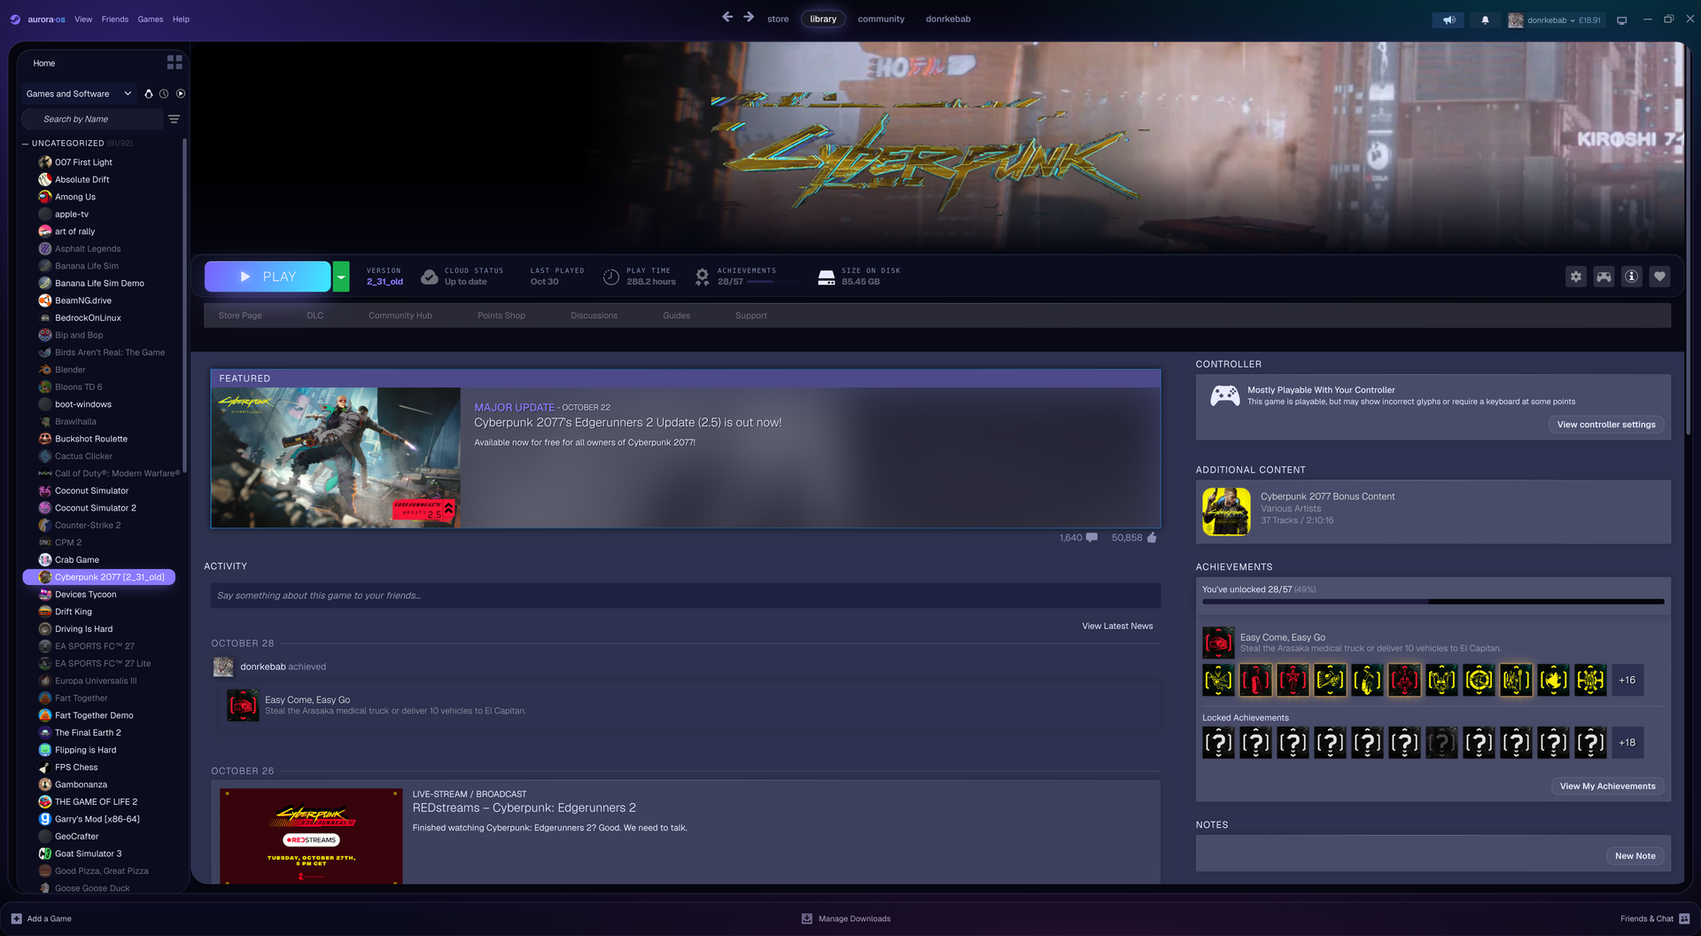
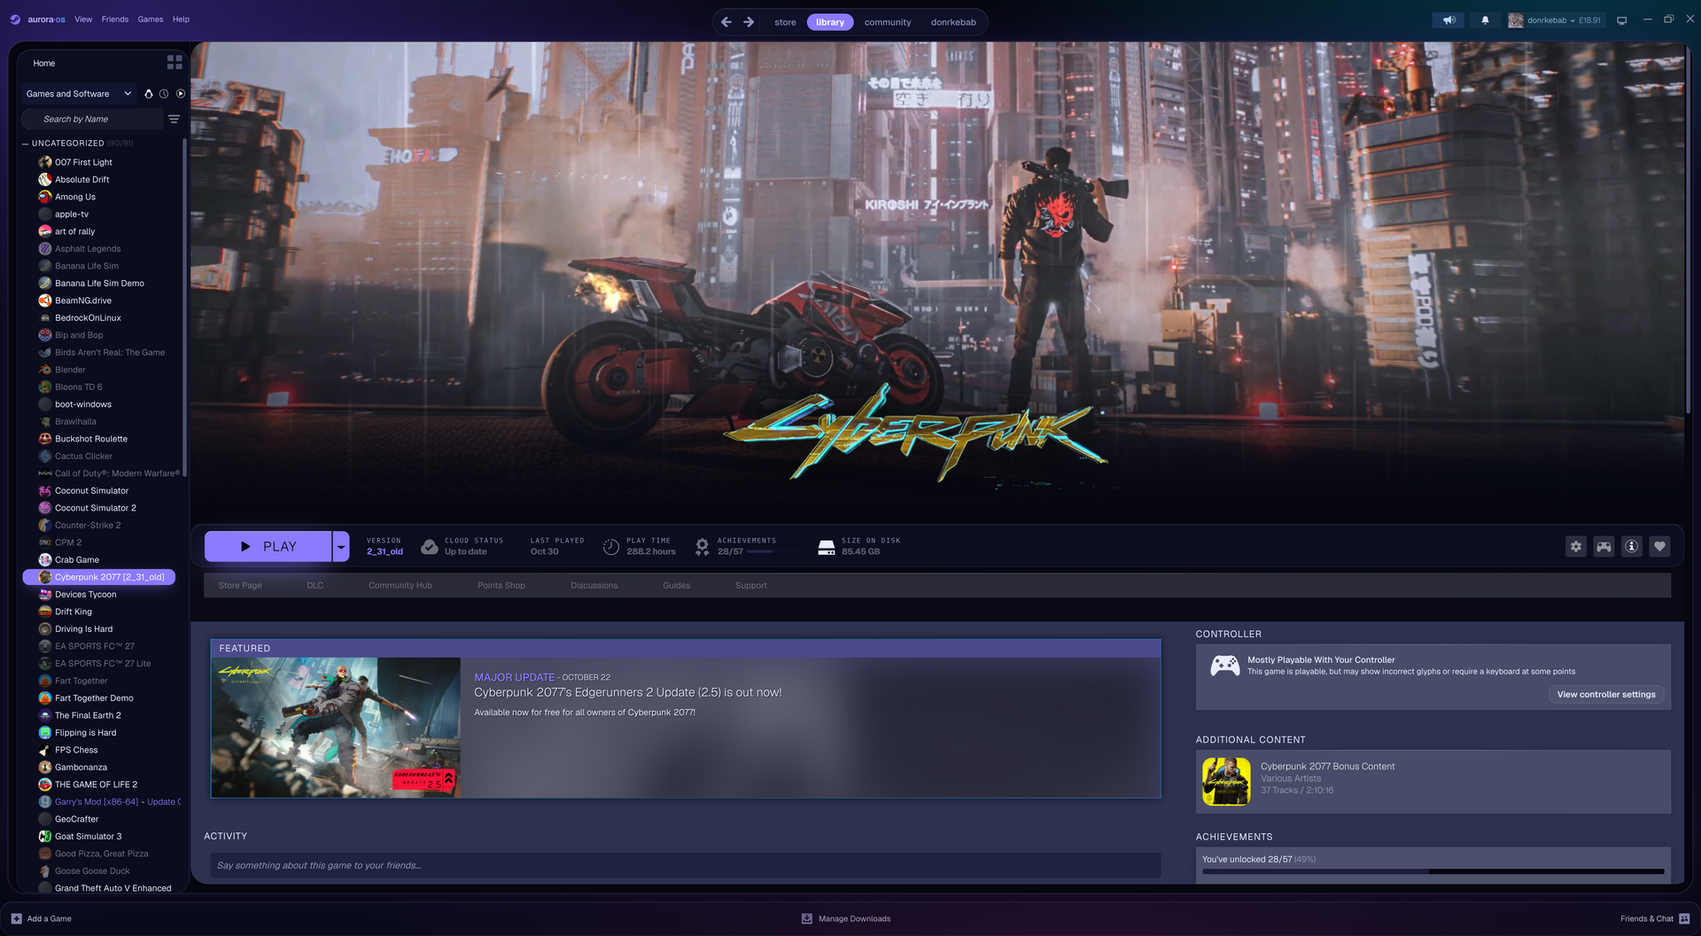
Full uncropped game art, solid play button, segmented nav bar, refreshed screenshots

diff --git a/mx/main.css b/mx/main.css
@@ -793,7 +793,7 @@ button.DialogButton:disabled,button.DialogButton:disabled:hover,button.DialogBut
 .videoSrc{border-left:1px solid var(--g0)!important;border-right:1px solid var(--g0)!important;background-color:var(--g1)!important}
 .StandalonePlayerHeader{background-color:color-mix(in srgb,var(--g2) 30%,transparent)!important}
 .yCd0zjymzfw3HkVm-1YwX{background-color:var(--g1)!important;background-color:var(--g0)!important}
-:root{--bg-solid:#05060f;--bg:#05060f;--text:#e9ebff;--mute:#8b8fb3;--acc:#8b7bff;--acc2:#3ee6ff;--font:'Geist',system-ui,sans-serif;--font-display:'Geist',system-ui,sans-serif;--r:12px;--grain:.06;--panel:#0b0d1e8c;--pop:#0d1024d9;--input:#ffffff08;--hover:#ffffff0d;--line:#ffffff14;--thumb:#ffffff1f;--ring:#8b7bff40;--fx:radial-gradient(40% 35% at 20% 15%,#6d4bff55,transparent 70%),radial-gradient(35% 30% at 80% 10%,#00d4ff40,transparent 70%),radial-gradient(45% 40% at 60% 90%,#ff3dc322,transparent 70%);--fx-anim:aurora 40s ease-in-out infinite alternate;--h-size:30px;--h-w:650;--h-fill:linear-gradient(110deg,#e9ebff 35%,#b8adff 45%,#7ff3ff 50%,#e9ebff 60%);--h-anim:shine 6s linear infinite;--rule:linear-gradient(90deg,transparent,#8b7bff99,#3ee6ff99,transparent);--btn-r:10px;--btn-bg:#ffffff0a;--btn-fg:#e9ebff;--btn-border:1px solid #ffffff1a;--btn-bg-h:#ffffff14;--btn-fg-h:#fff;--btn-glow:0 0 0 1px #8b7bff80,0 10px 40px -8px #8b7bffaa;--btn-pri:linear-gradient(110deg,#7b61ff,#3ee6ff,#7b61ff);--btn-pri-fg:#05060f}
+:root{--bg-solid:#05060f;--bg:#05060f;--text:#e9ebff;--mute:#8b8fb3;--acc:#8b7bff;--acc2:#3ee6ff;--font:'Geist',system-ui,sans-serif;--font-display:'Geist',system-ui,sans-serif;--r:12px;--grain:.06;--panel:#0b0d1e8c;--pop:#0d1024d9;--input:#ffffff08;--hover:#ffffff0d;--line:#ffffff14;--thumb:#ffffff1f;--ring:#8b7bff40;--fx:radial-gradient(40% 35% at 20% 15%,#6d4bff55,transparent 70%),radial-gradient(35% 30% at 80% 10%,#00d4ff40,transparent 70%),radial-gradient(45% 40% at 60% 90%,#ff3dc322,transparent 70%);--fx-anim:aurora 40s ease-in-out infinite alternate;--h-size:30px;--h-w:650;--h-fill:linear-gradient(110deg,#e9ebff 35%,#b8adff 45%,#7ff3ff 50%,#e9ebff 60%);--h-anim:shine 6s linear infinite;--rule:linear-gradient(90deg,transparent,#8b7bff99,#3ee6ff99,transparent);--btn-r:10px;--btn-bg:#ffffff0a;--btn-fg:#e9ebff;--btn-border:1px solid #ffffff1a;--btn-bg-h:#ffffff14;--btn-fg-h:#fff;--btn-glow:0 0 0 1px #8b7bff80,0 10px 40px -8px #8b7bffaa;--btn-pri:var(--acc);--btn-pri-fg:#05060f}
 :root{--surface-solid:#0e1128;--surface-solid-2:#151938;--surface:#0d1026a6;--surface-2:#ffffff0d;--dock:#0c0f22b3;--hi:#ffffff14;--line-hi:#8b7bff66;--spot:#8b7bff1f;--gap:10px;--rx:18px;--rx-xl:26px;--icon-r:7px;--sel:var(--acc);--sel-fg:#fff;--font-mono:ui-monospace,monospace}
 :root{--logo-a:"aurora";--logo-b:"·os";--logo-font:600 13px 'Geist',sans-serif;--logo-ls:-.02em;--logo-fill:linear-gradient(90deg,#8b7bff,#3ee6ff,#8b7bff)}
 :root{--nav-tt:lowercase;--nav-ls:0;--nav-size:13.5px;--nav-sel-bg:#ffffff12;--nav-sel-fg:#fff;--nav-sel-shadow:inset 0 0 0 1px #8b7bff55,0 0 24px -6px #8b7bff}
@@ -823,8 +823,13 @@ body::before{content:"";position:fixed;inset:-20%;pointer-events:none;z-index:0;
 .bSKGlAJG2UVWTsntEJY2v::after{display:inline-flex;align-items:center}
 ._3ydigb6zZAjJ0JCDgHwSYA._2AzIX5kl9k6JnxLfR5H4kX{min-width:180px;gap:8px}
 ._39oUCO1OuizVPwcnnv88no ._1Ky59qmywxOUtNcI1cgmkX{align-items:center;padding-left:10px}
-.NZMJ6g2iVnFsOOp-lDmIP{position:relative}
 ._3LKQ3S_yqrebeNLF6aeiog{position:relative;border-radius:6px}
+.q-hero-fade{position:absolute;pointer-events:none;z-index:1;background:linear-gradient(transparent 75%,var(--bg-solid) 100%)}
+._3ydigb6zZAjJ0JCDgHwSYA._2AzIX5kl9k6JnxLfR5H4kX:has(.SVGIcon_Play):hover,._2AzIX5kl9k6JnxLfR5H4kX._2q-gZ3XJzlvSGHSF-GvSmi:hover{filter:brightness(1.12)}
+._3Z3ohQ8-1NKnCZkbS6fvy ._2D64jIEK7wpUR_NlObDW76{align-items:center;gap:2px;border-radius:var(--nav-r,999px);background:var(--surface-solid);border:1px solid var(--line);box-shadow:inset 0 1px 0 var(--hi,#fff1)}
+._3Z3ohQ8-1NKnCZkbS6fvy ._2D64jIEK7wpUR_NlObDW76 svg{border-radius:var(--nav-r,999px);transition:background .1s,color .1s}
+._3Z3ohQ8-1NKnCZkbS6fvy ._2D64jIEK7wpUR_NlObDW76 svg:hover{background:var(--hover)}
+._3Z3ohQ8-1NKnCZkbS6fvy ._2D64jIEK7wpUR_NlObDW76 svg:nth-of-type(2){margin-right:6px;border-right:1px solid var(--line);border-radius:var(--nav-r,999px) 0 0 var(--nav-r,999px)}
 :root{--ease:cubic-bezier(.2,.9,.25,1)}
 ._3fLo166MlaNqP8r8tTyRz,._1nTD-C3qRvYp3RSRZSegz3>div,._3vCzSrrXZzZjVJFZNg9SGu{transition:border-color .1s var(--ease)}
 @keyframes rise{from{opacity:0;transform:translateY(18px) scale(.985);}to{opacity:1;transform:none}}
@@ -897,7 +902,7 @@ body::before{content:"";position:fixed;inset:-20%;pointer-events:none;z-index:0;
 #q-load{position:fixed;inset:0;z-index:2147483000;display:flex;flex-direction:column;align-items:center;justify-content:center;gap:20px;background:var(--bg-solid);transition:opacity .3s ease}
 #q-load .q-mark::before{content:var(--logo-a) var(--logo-b);font:var(--logo-font);font-size:56px;letter-spacing:var(--logo-ls,0);color:var(--text);line-height:1}
 #q-load.out{opacity:0;pointer-events:none}
-:root{--bg-solid:#05060f;--bg:#05060f;--text:#e9ebff;--mute:#8b8fb3;--acc:#8b7bff;--acc2:#3ee6ff;--font:'Geist',system-ui,sans-serif;--font-display:'Geist',system-ui,sans-serif;--r:12px;--grain:.06;--panel:#0b0d1e8c;--pop:#0d1024d9;--input:#ffffff08;--hover:#ffffff0d;--line:#ffffff14;--thumb:#ffffff1f;--ring:#8b7bff40;--fx:radial-gradient(40% 35% at 20% 15%,#6d4bff55,transparent 70%),radial-gradient(35% 30% at 80% 10%,#00d4ff40,transparent 70%),radial-gradient(45% 40% at 60% 90%,#ff3dc322,transparent 70%);--fx-anim:aurora 40s ease-in-out infinite alternate;--h-size:30px;--h-w:650;--h-fill:linear-gradient(110deg,#e9ebff 35%,#b8adff 45%,#7ff3ff 50%,#e9ebff 60%);--h-anim:shine 6s linear infinite;--rule:linear-gradient(90deg,transparent,#8b7bff99,#3ee6ff99,transparent);--btn-r:10px;--btn-bg:#ffffff0a;--btn-fg:#e9ebff;--btn-border:1px solid #ffffff1a;--btn-bg-h:#ffffff14;--btn-fg-h:#fff;--btn-glow:0 0 0 1px #8b7bff80,0 10px 40px -8px #8b7bffaa;--btn-pri:linear-gradient(110deg,#7b61ff,#3ee6ff,#7b61ff);--btn-pri-fg:#05060f}
+:root{--bg-solid:#05060f;--bg:#05060f;--text:#e9ebff;--mute:#8b8fb3;--acc:#8b7bff;--acc2:#3ee6ff;--font:'Geist',system-ui,sans-serif;--font-display:'Geist',system-ui,sans-serif;--r:12px;--grain:.06;--panel:#0b0d1e8c;--pop:#0d1024d9;--input:#ffffff08;--hover:#ffffff0d;--line:#ffffff14;--thumb:#ffffff1f;--ring:#8b7bff40;--fx:radial-gradient(40% 35% at 20% 15%,#6d4bff55,transparent 70%),radial-gradient(35% 30% at 80% 10%,#00d4ff40,transparent 70%),radial-gradient(45% 40% at 60% 90%,#ff3dc322,transparent 70%);--fx-anim:aurora 40s ease-in-out infinite alternate;--h-size:30px;--h-w:650;--h-fill:linear-gradient(110deg,#e9ebff 35%,#b8adff 45%,#7ff3ff 50%,#e9ebff 60%);--h-anim:shine 6s linear infinite;--rule:linear-gradient(90deg,transparent,#8b7bff99,#3ee6ff99,transparent);--btn-r:10px;--btn-bg:#ffffff0a;--btn-fg:#e9ebff;--btn-border:1px solid #ffffff1a;--btn-bg-h:#ffffff14;--btn-fg-h:#fff;--btn-glow:0 0 0 1px #8b7bff80,0 10px 40px -8px #8b7bffaa;--btn-pri:var(--acc);--btn-pri-fg:#05060f}
 @keyframes aurora{0%{transform:translate3d(0,0,0) rotate(0) scale(1);}100%{transform:translate3d(-6%,4%,0) rotate(8deg) scale(1.15)}}
 ._3x1HklzyDs4TEjACrRO2tB{position:relative}
 @keyframes beam{from{transform:translateY(-100%)}to{transform:translateY(400%)}}
@@ -949,16 +954,28 @@ body :is(input,textarea,:is([contenteditable=""],[contenteditable=true],[content
 ._39oUCO1OuizVPwcnnv88no ._1Ky59qmywxOUtNcI1cgmkX{height:56px!important}
 ._1rDh5rXSFZJOqCa4UpnI4z{margin-top:6px!important}
 ._39oUCO1OuizVPwcnnv88no>*,._39oUCO1OuizVPwcnnv88no>*>*{align-self:center!important}
-.NZMJ6g2iVnFsOOp-lDmIP{overflow:hidden!important;background:#000!important}
-.NZMJ6g2iVnFsOOp-lDmIP .QlR9EFwTdUNm_J5vx54_Z,.NZMJ6g2iVnFsOOp-lDmIP ._2aPcBP45fdgOK22RN0jbhm{position:static!important}
-.NZMJ6g2iVnFsOOp-lDmIP .HNbe3eZf6H7dtJ042x1vM.HSQWw9HUAP6jtA2OZjS-u,.NZMJ6g2iVnFsOOp-lDmIP .HNbe3eZf6H7dtJ042x1vM._3_IUVzR9tpG_JKEjhwXEAb,.NZMJ6g2iVnFsOOp-lDmIP ._1ssCErQIw1aTDS36tCKZJy{display:none!important}
-.NZMJ6g2iVnFsOOp-lDmIP .HNbe3eZf6H7dtJ042x1vM:not(.HSQWw9HUAP6jtA2OZjS-u):not(._3_IUVzR9tpG_JKEjhwXEAb){position:absolute!important;top:0!important;left:50%!important;right:auto!important;transform:translateX(-50%)!important;width:min(100%,1660px)!important;max-width:none!important;height:100%!important;margin:0!important;object-fit:cover!important;object-position:center!important;-webkit-mask-image:linear-gradient(90deg,transparent 0,#000 10%,#000 90%,transparent 100%)!important;mask-image:linear-gradient(90deg,transparent 0,#000 10%,#000 90%,transparent 100%)!important;-webkit-mask-size:100% 100%!important}
 ._3x1HklzyDs4TEjACrRO2tB,._3x1HklzyDs4TEjACrRO2tB ._1ijTaXJJA5YWl_fW2IxcaT{background:var(--rail-bg,var(--surface-solid))!important}
 ._3LKQ3S_yqrebeNLF6aeiog{align-self:center!important;height:28px!important}
 ._3LKQ3S_yqrebeNLF6aeiog ._34bQcTHo5QKzuujoEyU1tm{position:static!important;top:auto!important}
 ._3x1HklzyDs4TEjACrRO2tB :focus,._3x1HklzyDs4TEjACrRO2tB :focus-visible,._3x1HklzyDs4TEjACrRO2tB .gpfocus{outline:none!important;box-shadow:none!important}
 ._3x1HklzyDs4TEjACrRO2tB ._1ijTaXJJA5YWl_fW2IxcaT,._3x1HklzyDs4TEjACrRO2tB .ReactVirtualized__Grid{border:0!important;outline:0!important}
 ._26Gmfe09NRsnF7eprTZYdY{background:var(--surface-solid)!important;border-bottom:1px solid var(--line)!important;padding-inline-start:16px!important}
+.NZMJ6g2iVnFsOOp-lDmIP{overflow:hidden!important;background:#000!important}
+.NZMJ6g2iVnFsOOp-lDmIP .HNbe3eZf6H7dtJ042x1vM.HSQWw9HUAP6jtA2OZjS-u,.NZMJ6g2iVnFsOOp-lDmIP .HNbe3eZf6H7dtJ042x1vM._3_IUVzR9tpG_JKEjhwXEAb{display:none!important}
+.NZMJ6g2iVnFsOOp-lDmIP img.q-hero{-webkit-mask-image:none!important;mask-image:none!important;max-width:none!important;max-height:none!important;margin:0!important;transform:none!important;object-fit:fill!important}
+.NZMJ6g2iVnFsOOp-lDmIP ._2DVdg_N1qLNDdnxJqN-RBX,.NZMJ6g2iVnFsOOp-lDmIP ._3NBxSLAZLbbbnul8KfDFjw{z-index:3!important}
+._3ydigb6zZAjJ0JCDgHwSYA._2AzIX5kl9k6JnxLfR5H4kX:has(.SVGIcon_Play),._3ydigb6zZAjJ0JCDgHwSYA._2AzIX5kl9k6JnxLfR5H4kX:has(.SVGIcon_Download),._2AzIX5kl9k6JnxLfR5H4kX._2q-gZ3XJzlvSGHSF-GvSmi{background:var(--acc)!important;background-image:none!important;animation:none!important;box-shadow:none!important;border:0!important}
+._3ydigb6zZAjJ0JCDgHwSYA._2AzIX5kl9k6JnxLfR5H4kX:has(.SVGIcon_Play),._3ydigb6zZAjJ0JCDgHwSYA._2AzIX5kl9k6JnxLfR5H4kX:has(.SVGIcon_Download){border-radius:var(--play-r,10px) 0 0 var(--play-r,10px)!important;color:var(--btn-pri-fg)!important;font-weight:800!important;letter-spacing:.04em!important}
+._3ydigb6zZAjJ0JCDgHwSYA._2AzIX5kl9k6JnxLfR5H4kX:has(.SVGIcon_Play) *,._3ydigb6zZAjJ0JCDgHwSYA._2AzIX5kl9k6JnxLfR5H4kX:has(.SVGIcon_Download) *{color:var(--btn-pri-fg)!important;fill:var(--btn-pri-fg)!important;filter:none!important;opacity:1!important}
+._2AzIX5kl9k6JnxLfR5H4kX._2q-gZ3XJzlvSGHSF-GvSmi{border-radius:0 var(--play-r,10px) var(--play-r,10px) 0!important;margin-left:2px!important;color:var(--btn-pri-fg)!important}
+._2AzIX5kl9k6JnxLfR5H4kX._2q-gZ3XJzlvSGHSF-GvSmi *{fill:var(--btn-pri-fg)!important;color:var(--btn-pri-fg)!important}
+._3ydigb6zZAjJ0JCDgHwSYA._2AzIX5kl9k6JnxLfR5H4kX:has(.SVGIcon_Play):hover,._2AzIX5kl9k6JnxLfR5H4kX._2q-gZ3XJzlvSGHSF-GvSmi:hover{transform:none!important}
+._3Z3ohQ8-1NKnCZkbS6fvy ._2D64jIEK7wpUR_NlObDW76{display:flex!important;padding:4px!important}
+._3Z3ohQ8-1NKnCZkbS6fvy ._2D64jIEK7wpUR_NlObDW76 svg{padding:6px 8px!important;color:var(--mute)!important;fill:var(--mute)!important}
+._3Z3ohQ8-1NKnCZkbS6fvy ._2D64jIEK7wpUR_NlObDW76 svg:hover{color:var(--text)!important;fill:var(--text)!important}
+._3Z3ohQ8-1NKnCZkbS6fvy ._7AlhCx3XGzBeIrQaCneUD{padding:6px 16px!important;margin:0!important}
+._3Z3ohQ8-1NKnCZkbS6fvy ._7AlhCx3XGzBeIrQaCneUD._1gqEjB5QsKT_NftD1dEsdZ{background:var(--acc)!important;box-shadow:none!important}
+._3Z3ohQ8-1NKnCZkbS6fvy ._7AlhCx3XGzBeIrQaCneUD._1gqEjB5QsKT_NftD1dEsdZ ._19axKcqYRuaJ8vdYKYmtTQ{color:var(--btn-pri-fg)!important;font-weight:700!important}
 ._3fLo166MlaNqP8r8tTyRz,._1nTD-C3qRvYp3RSRZSegz3>div,._3vCzSrrXZzZjVJFZNg9SGu{background:var(--surface)!important;border:1px solid var(--line)!important;border-radius:var(--rx)!important;box-shadow:inset 0 1px 0 var(--hi),0 1px 2px #0006,0 8px 20px -14px #000!important}
 ._1nTD-C3qRvYp3RSRZSegz3>div:hover{border-color:var(--line-hi)!important}
 ._23SnllqT_AqZ1C_QHcNQ4Z{font-family:var(--font-display)!important;font-size:var(--sh-size,15px)!important;letter-spacing:var(--sh-ls,-.01em)!important}

diff --git a/mx/popup.css b/mx/popup.css
@@ -15,7 +15,7 @@
   unicode-range: U+0000-00FF, U+0131, U+0152-0153, U+02BB-02BC, U+02C6, U+02DA, U+02DC, U+0304, U+0308, U+0329, U+2000-206F, U+20AC, U+2122, U+2191, U+2193, U+2212, U+2215, U+FEFF, U+FFFD;
 }
 @layer opt, theme;
-:root{--bg-solid:#05060f;--bg:#05060f;--text:#e9ebff;--mute:#8b8fb3;--acc:#8b7bff;--acc2:#3ee6ff;--font:'Geist',system-ui,sans-serif;--font-display:'Geist',system-ui,sans-serif;--r:12px;--grain:.06;--panel:#0b0d1e8c;--pop:#0d1024d9;--input:#ffffff08;--hover:#ffffff0d;--line:#ffffff14;--thumb:#ffffff1f;--ring:#8b7bff40;--fx:radial-gradient(40% 35% at 20% 15%,#6d4bff55,transparent 70%),radial-gradient(35% 30% at 80% 10%,#00d4ff40,transparent 70%),radial-gradient(45% 40% at 60% 90%,#ff3dc322,transparent 70%);--fx-anim:aurora 40s ease-in-out infinite alternate;--h-size:30px;--h-w:650;--h-fill:linear-gradient(110deg,#e9ebff 35%,#b8adff 45%,#7ff3ff 50%,#e9ebff 60%);--h-anim:shine 6s linear infinite;--rule:linear-gradient(90deg,transparent,#8b7bff99,#3ee6ff99,transparent);--btn-r:10px;--btn-bg:#ffffff0a;--btn-fg:#e9ebff;--btn-border:1px solid #ffffff1a;--btn-bg-h:#ffffff14;--btn-fg-h:#fff;--btn-glow:0 0 0 1px #8b7bff80,0 10px 40px -8px #8b7bffaa;--btn-pri:linear-gradient(110deg,#7b61ff,#3ee6ff,#7b61ff);--btn-pri-fg:#05060f}
+:root{--bg-solid:#05060f;--bg:#05060f;--text:#e9ebff;--mute:#8b8fb3;--acc:#8b7bff;--acc2:#3ee6ff;--font:'Geist',system-ui,sans-serif;--font-display:'Geist',system-ui,sans-serif;--r:12px;--grain:.06;--panel:#0b0d1e8c;--pop:#0d1024d9;--input:#ffffff08;--hover:#ffffff0d;--line:#ffffff14;--thumb:#ffffff1f;--ring:#8b7bff40;--fx:radial-gradient(40% 35% at 20% 15%,#6d4bff55,transparent 70%),radial-gradient(35% 30% at 80% 10%,#00d4ff40,transparent 70%),radial-gradient(45% 40% at 60% 90%,#ff3dc322,transparent 70%);--fx-anim:aurora 40s ease-in-out infinite alternate;--h-size:30px;--h-w:650;--h-fill:linear-gradient(110deg,#e9ebff 35%,#b8adff 45%,#7ff3ff 50%,#e9ebff 60%);--h-anim:shine 6s linear infinite;--rule:linear-gradient(90deg,transparent,#8b7bff99,#3ee6ff99,transparent);--btn-r:10px;--btn-bg:#ffffff0a;--btn-fg:#e9ebff;--btn-border:1px solid #ffffff1a;--btn-bg-h:#ffffff14;--btn-fg-h:#fff;--btn-glow:0 0 0 1px #8b7bff80,0 10px 40px -8px #8b7bffaa;--btn-pri:var(--acc);--btn-pri-fg:#05060f}
 :root{--surface-solid:#0e1128;--surface-solid-2:#151938;--surface:#0d1026a6;--surface-2:#ffffff0d;--dock:#0c0f22b3;--hi:#ffffff14;--line-hi:#8b7bff66;--spot:#8b7bff1f;--gap:10px;--rx:18px;--rx-xl:26px;--icon-r:7px;--sel:var(--acc);--sel-fg:#fff;--font-mono:ui-monospace,monospace}
 :root{--logo-a:"aurora";--logo-b:"·os";--logo-font:600 13px 'Geist',sans-serif;--logo-ls:-.02em;--logo-fill:linear-gradient(90deg,#8b7bff,#3ee6ff,#8b7bff)}
 :root{--nav-tt:lowercase;--nav-ls:0;--nav-size:13.5px;--nav-sel-bg:#ffffff12;--nav-sel-fg:#fff;--nav-sel-shadow:inset 0 0 0 1px #8b7bff55,0 0 24px -6px #8b7bff}

diff --git a/mx/main.js b/mx/main.js
@@ -3,3 +3,19 @@
 const o=document.createElement('div');o.id='q-load';o.innerHTML='<div class="q-mark"></div><div class="q-bar"></div>';
 const add=()=>document.body&&!o.isConnected&&document.body.appendChild(o);document.body?add():addEventListener('DOMContentLoaded',add,{once:true});
 const t0=Date.now(),iv=setInterval(()=>{if(document.querySelector('.Rp8QOGJ2DypeDniMnRBhr')){clearInterval(iv);o.remove();return}add();if(document.querySelector('._1rDh5rXSFZJOqCa4UpnI4z ._3x1HklzyDs4TEjACrRO2tB,._1rDh5rXSFZJOqCa4UpnI4z ._2B7WsaKHDSav8vpQUxkVRB,._1rDh5rXSFZJOqCa4UpnI4z .NZMJ6g2iVnFsOOp-lDmIP')||Date.now()-t0>8000){clearInterval(iv);o.classList.add('out');setTimeout(()=>o.remove(),350)}},100)})();
+// game-page hero: show the whole art (no crop) centred in the *visible* banner, black fades on both ends
+(()=>{let raf=0;const place=()=>{raf=0;
+ const hero=document.querySelector('.NZMJ6g2iVnFsOOp-lDmIP');if(!hero)return;
+ const img=[...hero.querySelectorAll('img.HNbe3eZf6H7dtJ042x1vM')].find(i=>!i.classList.contains('HSQWw9HUAP6jtA2OZjS-u')&&!i.classList.contains('_3_IUVzR9tpG_JKEjhwXEAb'));if(!img||!img.naturalWidth)return;
+ for(let p=img.parentElement;p&&p!==hero;p=p.parentElement){for(const [k,v] of [['overflow','visible'],['position','static'],['transform','none'],['clip-path','none'],['-webkit-mask-image','none'],['mask-image','none']])p.style.setProperty(k,v,'important')}
+ if(getComputedStyle(hero).position==='static')hero.style.setProperty('position','relative','important');
+ const op=hero,hr=hero.getBoundingClientRect(),pr=hr;
+ let vl=hr.left,vr=hr.right;for(let p=hero.parentElement;p&&p!==document.body;p=p.parentElement){const s=getComputedStyle(p);if(s.overflowX!=='visible'){const r=p.getBoundingClientRect();vl=Math.max(vl,r.left);vr=Math.min(vr,r.left+p.clientWidth)}}
+ const w=vr-vl,ar=img.naturalWidth/img.naturalHeight,iw=w,ih=Math.round(w/ar);
+ hero.style.setProperty('height',ih+'px','important');hero.style.setProperty('max-height','none','important');hero.style.setProperty('min-height','0','important');
+ const h=ih;
+ img.classList.add('q-hero');Object.assign(img.style,{position:'absolute',left:(vl-pr.left)+'px',top:'0px',width:iw+'px',height:ih+'px'});
+ let f=op.querySelector(':scope>.q-hero-fade');if(!f){f=document.createElement('div');f.className='q-hero-fade';op.appendChild(f)}
+ Object.assign(f.style,{left:img.style.left,top:img.style.top,width:iw+'px',height:ih+'px'})};
+ const q=()=>{if(!raf)raf=requestAnimationFrame(place)};
+ addEventListener('resize',q);new MutationObserver(q).observe(document.documentElement,{childList:true,subtree:true});document.addEventListener('load',q,true)})();

diff --git a/mx/webkit.css b/mx/webkit.css
@@ -22,7 +22,7 @@
 --h-size:30px;--h-w:650;--h-fill:linear-gradient(110deg,#e9ebff 35%,#b8adff 45%,#7ff3ff 50%,#e9ebff 60%);--h-anim:shine 6s linear infinite;
 --rule:linear-gradient(90deg,transparent,#8b7bff99,#3ee6ff99,transparent);
 --btn-r:10px;--btn-bg:#ffffff0a;--btn-fg:#e9ebff;--btn-border:1px solid #ffffff1a;--btn-bg-h:#ffffff14;--btn-fg-h:#fff;
---btn-glow:0 0 0 1px #8b7bff80,0 10px 40px -8px #8b7bffaa;--btn-pri:linear-gradient(110deg,#7b61ff,#3ee6ff,#7b61ff);--btn-pri-fg:#05060f}
+--btn-glow:0 0 0 1px #8b7bff80,0 10px 40px -8px #8b7bffaa;--btn-pri:var(--acc);--btn-pri-fg:#05060f}
 :root{--surface-solid:#0e1128;--surface-solid-2:#151938;--surface:#0d1026a6;--surface-2:#ffffff0d;--dock:#0c0f22b3;--hi:#ffffff14;--line-hi:#8b7bff66;--spot:#8b7bff1f;--gap:10px;--rx:18px;--rx-xl:26px;--icon-r:7px;
 --sel:var(--acc);--sel-fg:#fff;--font-mono:ui-monospace,monospace}
 :root{--st-background:5,6,15!important;--st-color-1:11,13,30!important;--st-color-2:19,22,46!important;--st-color-3:14,16,36!important;--st-color-4:16,19,40!important;--st-color-5:34,38,70!important;--st-color-6:30,33,62!important;--st-accent-1:139,123,255!important;--st-accent-2:62,230,255!important;--st-blue:123,97,255!important;--st-blue-hover:150,130,255!important;--st-green:52,211,153!important;--st-green-hover:80,225,170!important;--st-red:255,84,112!important;--st-red-hover:255,110,135!important;--st-yellow:255,196,87!important;--st-yellow-hover:255,210,120!important;--st-border-radius:14px!important}

diff --git a/mx/root.css b/mx/root.css
@@ -6,7 +6,7 @@
 --h-size:30px;--h-w:650;--h-fill:linear-gradient(110deg,#e9ebff 35%,#b8adff 45%,#7ff3ff 50%,#e9ebff 60%);--h-anim:shine 6s linear infinite;
 --rule:linear-gradient(90deg,transparent,#8b7bff99,#3ee6ff99,transparent);
 --btn-r:10px;--btn-bg:#ffffff0a;--btn-fg:#e9ebff;--btn-border:1px solid #ffffff1a;--btn-bg-h:#ffffff14;--btn-fg-h:#fff;
---btn-glow:0 0 0 1px #8b7bff80,0 10px 40px -8px #8b7bffaa;--btn-pri:linear-gradient(110deg,#7b61ff,#3ee6ff,#7b61ff);--btn-pri-fg:#05060f}
+--btn-glow:0 0 0 1px #8b7bff80,0 10px 40px -8px #8b7bffaa;--btn-pri:var(--acc);--btn-pri-fg:#05060f}
 :root{--surface-solid:#0e1128;--surface-solid-2:#151938;--surface:#0d1026a6;--surface-2:#ffffff0d;--dock:#0c0f22b3;--hi:#ffffff14;--line-hi:#8b7bff66;--spot:#8b7bff1f;--gap:10px;--rx:18px;--rx-xl:26px;--icon-r:7px;
 --sel:var(--acc);--sel-fg:#fff;--font-mono:ui-monospace,monospace}
 :root{--st-background:5,6,15!important;--st-color-1:11,13,30!important;--st-color-2:19,22,46!important;--st-color-3:14,16,36!important;--st-color-4:16,19,40!important;--st-color-5:34,38,70!important;--st-color-6:30,33,62!important;--st-accent-1:139,123,255!important;--st-accent-2:62,230,255!important;--st-blue:123,97,255!important;--st-blue-hover:150,130,255!important;--st-green:52,211,153!important;--st-green-hover:80,225,170!important;--st-red:255,84,112!important;--st-red-hover:255,110,135!important;--st-yellow:255,196,87!important;--st-yellow-hover:255,210,120!important;--st-border-radius:14px!important}

diff --git a/mx/opt/accent-rose.css b/mx/opt/accent-rose.css
@@ -1,3 +1,3 @@
 @layer opt{
-:root{--acc:#ff6bb5!important;--acc2:#8b7bff!important;--ring:#ff6bb540!important;--spot:#ff6bb51f!important;--line-hi:#ff6bb566!important;--sel:#ff6bb5!important;--sel-fg:#0b0b0a!important;--nav-sel-fg:#ff6bb5!important;--btn-pri:linear-gradient(110deg,#ff6bb5,#8b7bff,#ff6bb5)!important;--btn-pri-fg:#0b0b0a!important;--price-bg:#ff6bb5!important;--price-fg:#0b0b0a!important;--st-accent-1:255,107,181!important;--st-accent-2:139,123,255!important;--st-blue:255,107,181!important;--st-blue-hover:139,123,255!important}
+:root{--acc:#ff6bb5!important;--acc2:#8b7bff!important;--ring:#ff6bb540!important;--spot:#ff6bb51f!important;--line-hi:#ff6bb566!important;--sel:#ff6bb5!important;--sel-fg:#0b0b0a!important;--nav-sel-fg:#ff6bb5!important;--btn-pri:#ff6bb5!important;--btn-pri-fg:#0b0b0a!important;--price-bg:#ff6bb5!important;--price-fg:#0b0b0a!important;--st-accent-1:255,107,181!important;--st-accent-2:139,123,255!important;--st-blue:255,107,181!important;--st-blue-hover:139,123,255!important}
 }

diff --git a/mx/opt/accent-mint.css b/mx/opt/accent-mint.css
@@ -1,3 +1,3 @@
 @layer opt{
-:root{--acc:#3ef0b0!important;--acc2:#3ee6ff!important;--ring:#3ef0b040!important;--spot:#3ef0b01f!important;--line-hi:#3ef0b066!important;--sel:#3ef0b0!important;--sel-fg:#0b0b0a!important;--nav-sel-fg:#3ef0b0!important;--btn-pri:linear-gradient(110deg,#3ef0b0,#3ee6ff,#3ef0b0)!important;--btn-pri-fg:#0b0b0a!important;--price-bg:#3ef0b0!important;--price-fg:#0b0b0a!important;--st-accent-1:62,240,176!important;--st-accent-2:62,230,255!important;--st-blue:62,240,176!important;--st-blue-hover:62,230,255!important}
+:root{--acc:#3ef0b0!important;--acc2:#3ee6ff!important;--ring:#3ef0b040!important;--spot:#3ef0b01f!important;--line-hi:#3ef0b066!important;--sel:#3ef0b0!important;--sel-fg:#0b0b0a!important;--nav-sel-fg:#3ef0b0!important;--btn-pri:#3ef0b0!important;--btn-pri-fg:#0b0b0a!important;--price-bg:#3ef0b0!important;--price-fg:#0b0b0a!important;--st-accent-1:62,240,176!important;--st-accent-2:62,230,255!important;--st-blue:62,240,176!important;--st-blue-hover:62,230,255!important}
 }

diff --git a/mx/opt/accent-sky.css b/mx/opt/accent-sky.css
@@ -1,3 +1,3 @@
 @layer opt{
-:root{--acc:#4da3ff!important;--acc2:#3ee6ff!important;--ring:#4da3ff40!important;--spot:#4da3ff1f!important;--line-hi:#4da3ff66!important;--sel:#4da3ff!important;--sel-fg:#0b0b0a!important;--nav-sel-fg:#4da3ff!important;--btn-pri:linear-gradient(110deg,#4da3ff,#3ee6ff,#4da3ff)!important;--btn-pri-fg:#0b0b0a!important;--price-bg:#4da3ff!important;--price-fg:#0b0b0a!important;--st-accent-1:77,163,255!important;--st-accent-2:62,230,255!important;--st-blue:77,163,255!important;--st-blue-hover:62,230,255!important}
+:root{--acc:#4da3ff!important;--acc2:#3ee6ff!important;--ring:#4da3ff40!important;--spot:#4da3ff1f!important;--line-hi:#4da3ff66!important;--sel:#4da3ff!important;--sel-fg:#0b0b0a!important;--nav-sel-fg:#4da3ff!important;--btn-pri:#4da3ff!important;--btn-pri-fg:#0b0b0a!important;--price-bg:#4da3ff!important;--price-fg:#0b0b0a!important;--st-accent-1:77,163,255!important;--st-accent-2:62,230,255!important;--st-blue:77,163,255!important;--st-blue-hover:62,230,255!important}
 }
